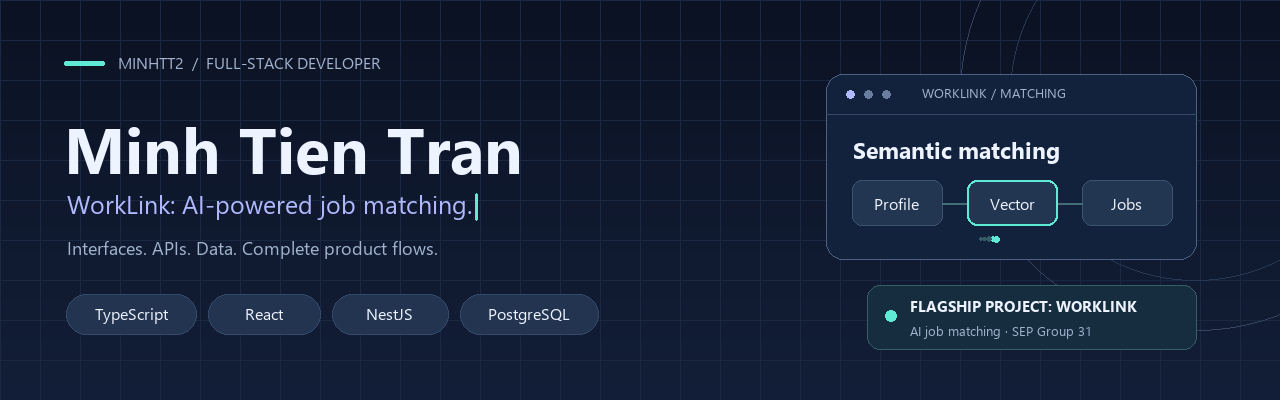
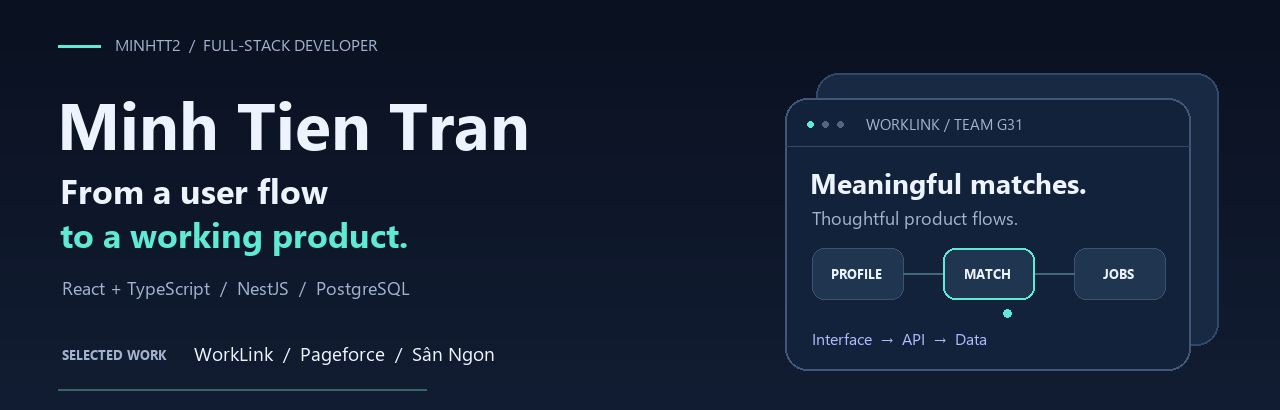
Add recruiter introduction and an evidence-linked WorkLink engineering story

diff --git a/README.md b/README.md
@@ -1,5 +1,5 @@
 <p align="center">
-  <picture><source media="(prefers-reduced-motion: reduce)" srcset="./assets/profile-banner.png" /><img src="./assets/profile-banner.gif" alt="Minh Tien Tran — full-stack developer; WorkLink is my flagship team project" width="100%" /></picture>
+  <picture><source media="(prefers-reduced-motion: reduce)" srcset="./assets/profile-banner.png" /><img src="./assets/profile-banner.gif" alt="Minh Tien Tran — full-stack developer. From a user flow to a working product. WorkLink, Pageforce, Sân Ngon." width="100%" /></picture>
 </p>
 <p align="center">
   <a href="https://worklink.id.vn"><img src="./assets/link-worklink.svg" alt="Visit WorkLink" width="165" /></a>
@@ -7,19 +7,27 @@
   <a href="https://github.com/minhtt22-26"><img src="./assets/link-history.svg" alt="Earlier GitHub account" width="178" /></a>
 </p>
 
-<p>I’m Minh, a <strong>full-stack developer</strong> building practical products with React, TypeScript, NestJS, and PostgreSQL. I connect thoughtful interfaces with reliable APIs, explicit business rules, and reviewable code.</p>
+<p>I’m Minh, a <strong>full-stack developer</strong> building practical products with React, TypeScript, NestJS, and PostgreSQL. I like the details that make a product work: a clear interface, explicit business rules, and a backend that backs them up.</p>
+
+<p><strong>A quick look at my work:</strong> <a href="https://worklink.id.vn">Try WorkLink ↗</a> · <a href="./docs/worklink-scheduling-story.md">Read an authored engineering story ↗</a> · <a href="https://github.com/MinhTT2?tab=repositories">Explore the code ↗</a></p>
 
 <h2>01 / WorkLink — flagship team project</h2>
 <p><strong>AI-powered job matching for the Vietnamese labor market.</strong><br /><sub>Software Engineering Project · Group 31 · React + NestJS</sub></p>
 <p>Job discovery, applications, interview scheduling, chat, and payment workflows in one platform. Semantic embeddings and vector search connect candidates with relevant opportunities.</p>
-<p><picture><source media="(prefers-reduced-motion: reduce)" srcset="./assets/worklink-flow.png" /><img src="./assets/worklink-flow.gif" alt="Conceptual WorkLink flow: profile, Gemini embeddings, pgvector and scoring, ranked suggestions" width="100%" /></picture></p>
+
 <p>
   <a href="https://github.com/minhtt22-26/sepbe_G31/actions/workflows/ci.yml">Backend <img src="https://github.com/minhtt22-26/sepbe_G31/actions/workflows/ci.yml/badge.svg?branch=main" alt="WorkLink backend CI status" /></a> ·
   <a href="https://github.com/he170794kieudinhdoan-lang/sepfe_G31/actions/workflows/ci.yml">Frontend <img src="https://github.com/he170794kieudinhdoan-lang/sepfe_G31/actions/workflows/ci.yml/badge.svg?branch=main" alt="WorkLink frontend CI status" /></a>
 </p>
+<h3>One detail I cared about</h3>
+<p>A candidate opens an interview invitation after a slot has already started. The UI should explain why it is unavailable, and the API should enforce the same rule.</p>
+<p><picture><source media="(prefers-reduced-motion: reduce)" srcset="./assets/worklink-scheduling.png" /><img src="./assets/worklink-scheduling.gif" alt="Conceptual scheduling illustration: past slot unavailable, upcoming slot selectable, server rejects past starts" width="100%" /></picture></p>
+<p><strong>My change:</strong> visible past-slot states, disabled selection, and a backend check on slot changes. I also refined invitation queries to consider upcoming slots and active deadlines.</p>
+<p><a href="./docs/worklink-scheduling-story.md"><strong>Read the engineering story →</strong></a> <sub>Problem · decision · code evidence · tradeoffs</sub></p>
+
 <h3>What I contributed</h3>
 <ul>
-  <li><strong>Scheduling reliability:</strong> handled backend race conditions and improved interview scheduling interactions. <a href="https://github.com/minhtt22-26/sepbe_G31/commit/6633809ebe5b796e57cad1176b079bf7099449dc">API change ↗</a> · <a href="https://github.com/he170794kieudinhdoan-lang/sepfe_G31/commit/ef767e28c864400e0bc177c9fcb636f97ee78a24">UI change ↗</a></li>
+  <li><strong>Scheduling reliability:</strong> disabled past interview slots in the UI, rejected past-slot changes in the API, and refined pending invitation counts. <a href="https://github.com/minhtt22-26/sepbe_G31/commit/6633809ebe5b796e57cad1176b079bf7099449dc">API change ↗</a> · <a href="https://github.com/he170794kieudinhdoan-lang/sepfe_G31/commit/ef767e28c864400e0bc177c9fcb636f97ee78a24">UI change ↗</a></li>
   <li><strong>Responsive conversations:</strong> added a Socket.io hook and typing indicator. <a href="https://github.com/he170794kieudinhdoan-lang/sepfe_G31/commit/118863374b62e5c59fa3ef9f0a3bfebafac790a8">Chat change ↗</a></li>
   <li><strong>Quality and delivery:</strong> expanded backend tests, added frontend CI/CD, and handled render failures with an error boundary. Evidence below.</li>
 </ul>
@@ -27,6 +35,7 @@
 <p><sub>Built with the G31 team. My contributions span <a href="https://github.com/MinhTT2">MinhTT2</a> and my earlier account <a href="https://github.com/minhtt22-26">minhtt22-26</a>.</sub></p>
 <details>
   <summary><strong>Engineering details &amp; verified contribution links</strong></summary>
+<p><picture><source media="(prefers-reduced-motion: reduce)" srcset="./assets/worklink-flow.png" /><img src="./assets/worklink-flow.gif" alt="Conceptual WorkLink flow: profile, Gemini embeddings, pgvector and scoring, ranked suggestions" width="100%" /></picture></p>
 <table>
   <tr><th align="left">Product capability</th><th align="left">Engineering behind it</th></tr>
   <tr><td>Semantic recommendations</td><td>Gemini embeddings, PostgreSQL/pgvector, and configurable scoring</td></tr>
@@ -38,7 +47,7 @@
 <p>Selected changes I authored across my two accounts:</p>
 <table>
   <tr><th align="left">Area</th><th align="left">My contribution</th><th align="left">See the change</th></tr>
-  <tr><td>Interview scheduling</td><td>Handled race conditions and edge cases in the backend, and improved scheduling interactions in the frontend.</td><td><a href="https://github.com/minhtt22-26/sepbe_G31/commit/6633809ebe5b796e57cad1176b079bf7099449dc">API</a> · <a href="https://github.com/he170794kieudinhdoan-lang/sepfe_G31/commit/ef767e28c864400e0bc177c9fcb636f97ee78a24">UI</a></td></tr>
+  <tr><td>Interview scheduling</td><td>Aligned past-slot handling across the UI and API; refined upcoming-slot and pending-invitation rules.</td><td><a href="https://github.com/minhtt22-26/sepbe_G31/commit/6633809ebe5b796e57cad1176b079bf7099449dc">API</a> · <a href="https://github.com/he170794kieudinhdoan-lang/sepfe_G31/commit/ef767e28c864400e0bc177c9fcb636f97ee78a24">UI</a></td></tr>
   <tr><td>Real-time chat</td><td>Added a Socket.io hook and typing indicator to make conversations feel responsive.</td><td><a href="https://github.com/he170794kieudinhdoan-lang/sepfe_G31/commit/118863374b62e5c59fa3ef9f0a3bfebafac790a8">Commit</a></td></tr>
   <tr><td>Backend quality</td><td>Expanded tests for services, DTOs, and infrastructure, including the Redis provider.</td><td><a href="https://github.com/minhtt22-26/sepbe_G31/commit/5f4b7b33d56f4e2c6830734c4ecf4a7945632802">Tests</a></td></tr>
   <tr><td>Delivery &amp; resilience</td><td>Added frontend CI/CD workflows and a top-level error boundary for render failures.</td><td><a href="https://github.com/he170794kieudinhdoan-lang/sepfe_G31/commit/37c7d5d557651701d0e884b47cc31362bfb7d6ae">CI/CD</a> · <a href="https://github.com/he170794kieudinhdoan-lang/sepfe_G31/commit/df882f9dac90df6eff1952b388bac86cf7af59c0">Error boundary</a></td></tr>
@@ -101,3 +110,4 @@
 </table>
 </details>
 <p><sub>Some professional contributions live in private repositories. My public work shows the product flows and engineering decisions I can share.</sub></p>
+

diff --git a/docs/worklink-scheduling-story.md b/docs/worklink-scheduling-story.md
@@ -1,0 +1,57 @@
+# WorkLink: making interview slot selection clearer
+
+**An authored full-stack change by Minh Tien Tran · SEP Group 31 team project.**
+
+[Profile](https://github.com/MinhTT2) · [WorkLink](https://worklink.id.vn) · [Backend change](https://github.com/minhtt22-26/sepbe_G31/commit/6633809ebe5b796e57cad1176b079bf7099449dc) · [Frontend change](https://github.com/he170794kieudinhdoan-lang/sepfe_G31/commit/ef767e28c864400e0bc177c9fcb636f97ee78a24)
+
+![Conceptual illustration of the scheduling rule](../assets/worklink-scheduling.png)
+
+## The situation
+
+An interview invitation can contain several time slots. By the time a candidate opens it, one or more slots may already have started. The candidate needs an understandable state; the backend needs its own validation for requests made from an older page or outside the UI.
+
+Example: a 09:00 slot is in the past while a 14:00 slot is still upcoming. The candidate should see the past slot as unavailable and be able to explore the future option, subject to the invitation's other rules.
+
+## What I changed
+
+| Boundary | Change in the public diff | Purpose |
+|---|---|---|
+| Slot UI | Compute `isPast` from the slot start; disable selection and show “Đã qua” with explanatory text. | Make the unavailable state visible before submission. |
+| Invitation UI | Check `allSlotsPast` in the choose/change condition. | Avoid offering a choice when every slot has started. |
+| Slot-change API | Reject a slot when its start is at or before the server's current time. | Enforce the past-slot rule independently of the UI. |
+| Deadline validation | Select reference slots whose end (or start fallback) is still future, then find their earliest start; apply the related deadline check when that future set exists. | Refine which slots influence deadline validation. |
+| Pending counts | Require a campaign slot with a future start, plus an invitation deadline that is future or absent. | Filter expired or irrelevant pending invitations in this query. |
+
+These changes were authored under my earlier GitHub account, **[minhtt22-26](https://github.com/minhtt22-26)**. WorkLink's wider matching, chat, and payment systems are team work.
+
+## Why this needs both the interface and the API
+
+A disabled button helps the candidate understand the rule. It cannot enforce the rule by itself: a page can become stale, and an API can receive a request without that interface. The slot-change endpoint therefore validates the start time too.
+
+The frontend uses the browser's current time for display. The backend checks the server's time for its decision. Keeping both checks explicit makes that division visible in the code.
+
+## A distinction worth discussing
+
+The diff uses **end time** (with a start-time fallback) to identify future reference slots for deadline validation, but uses **start time** for UI selection and the slot-change guard. A slot already in progress can therefore belong to the reference set while being unavailable for a new selection. Those predicates answer different questions; they should not be described as identical rules.
+
+The existing capacity check is separate. This patch does not by itself demonstrate an atomic reservation or a concurrency fix.
+
+## Review the implementation
+
+- [Backend diff](https://github.com/minhtt22-26/sepbe_G31/commit/6633809ebe5b796e57cad1176b079bf7099449dc): look for `interview-invitation.service.ts`, `futureSlots`, pending invitation filters, and the past-start rejection.
+- [Frontend diff](https://github.com/he170794kieudinhdoan-lang/sepfe_G31/commit/ef767e28c864400e0bc177c9fcb636f97ee78a24): look for `WorkerInvitations.jsx`, `allSlotsPast`, and `isPast`.
+
+## How I would verify this boundary
+
+These are review scenarios, not claimed test results:
+
+- A mix of past and future slots: past choices disabled, future choices subject to the usual invitation rules.
+- Every slot past: choosing/changing a slot unavailable.
+- Start time exactly equal to now: the backend rejects the slot change.
+- A page left open across a slot's start: the backend still rejects the now-past selection.
+- Expired and absent invitation deadlines: each follows the pending-query filter explicitly.
+- A slot in progress: check the intended distinction between end-based reference selection and start-based booking eligibility.
+
+For further hardening, I would examine clock differences, refresh behavior, timezone handling, and atomic capacity enforcement with the team.
+
+*This write-up is based on the linked public changes. It does not claim measured business impact, production performance, or an independently executed test run.*
